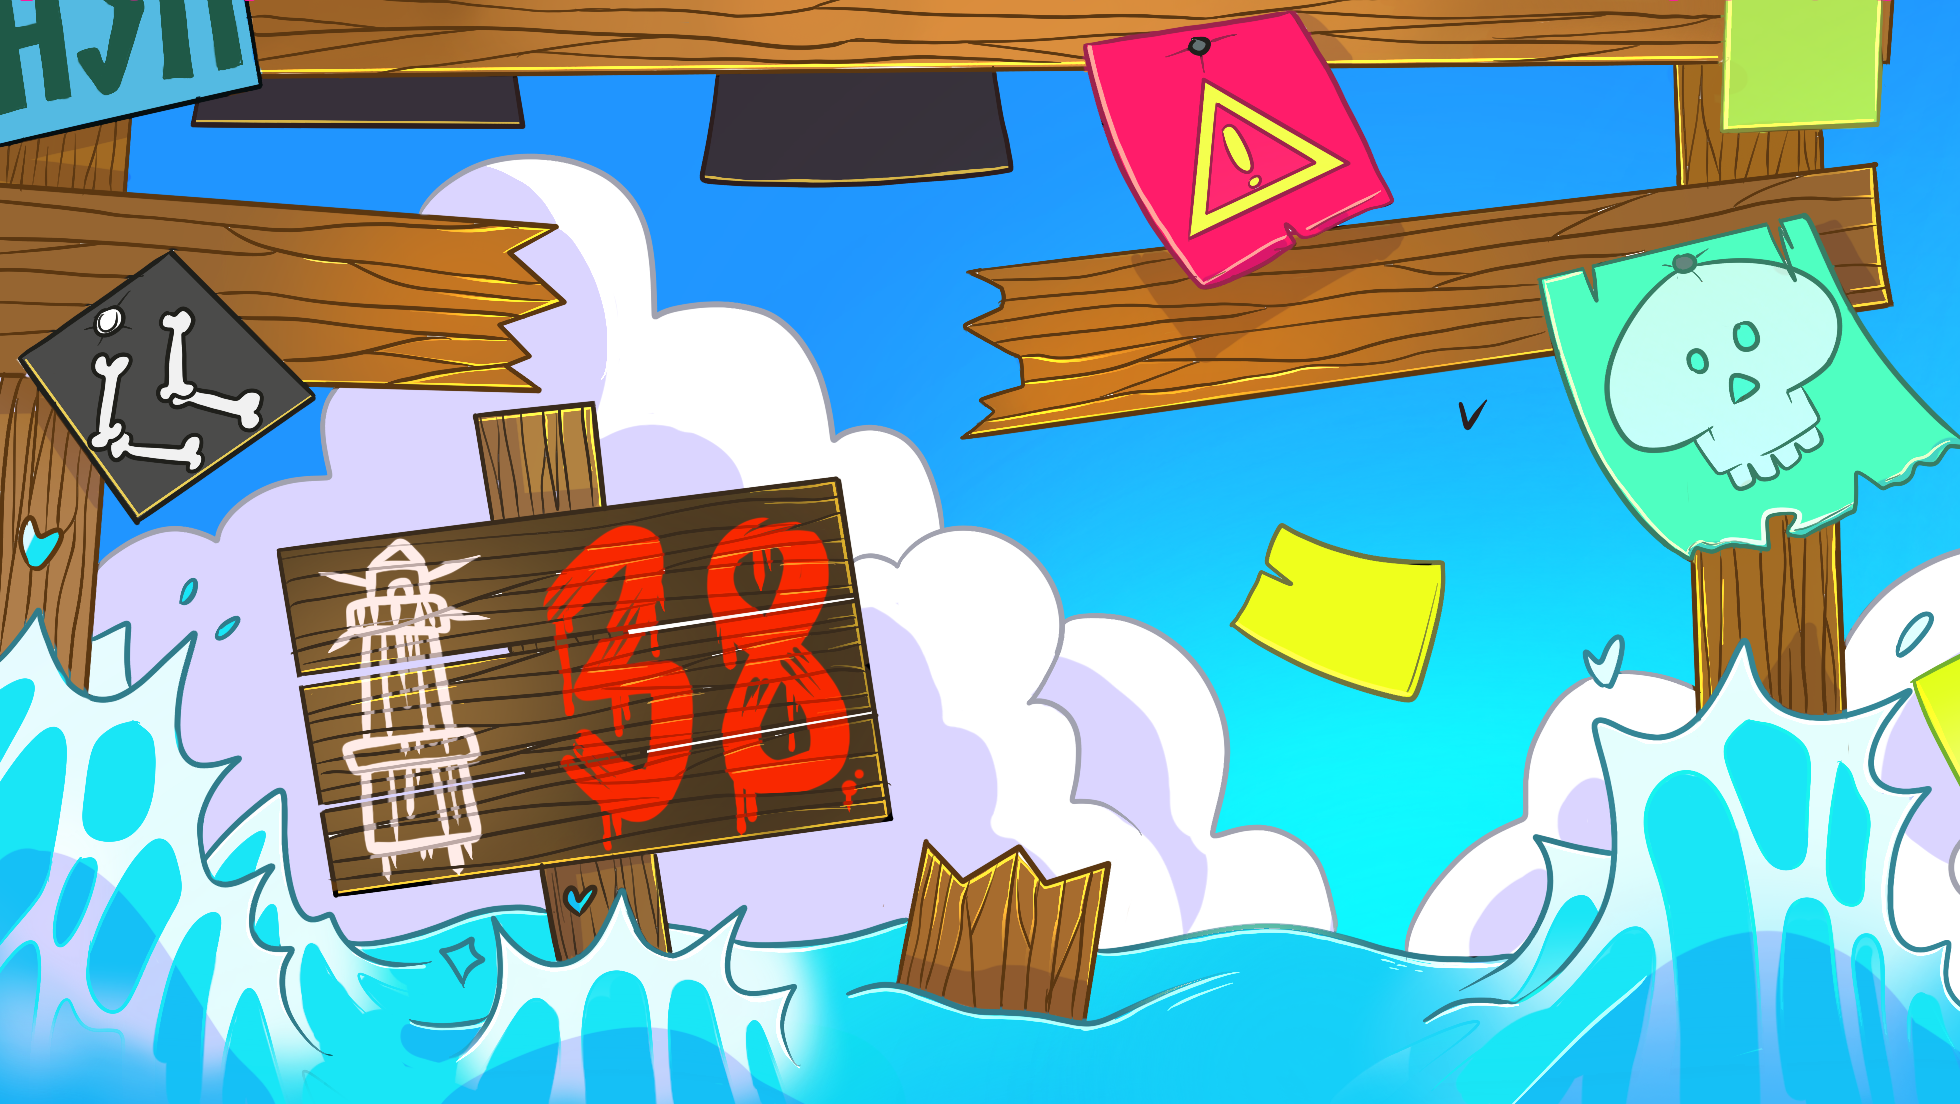
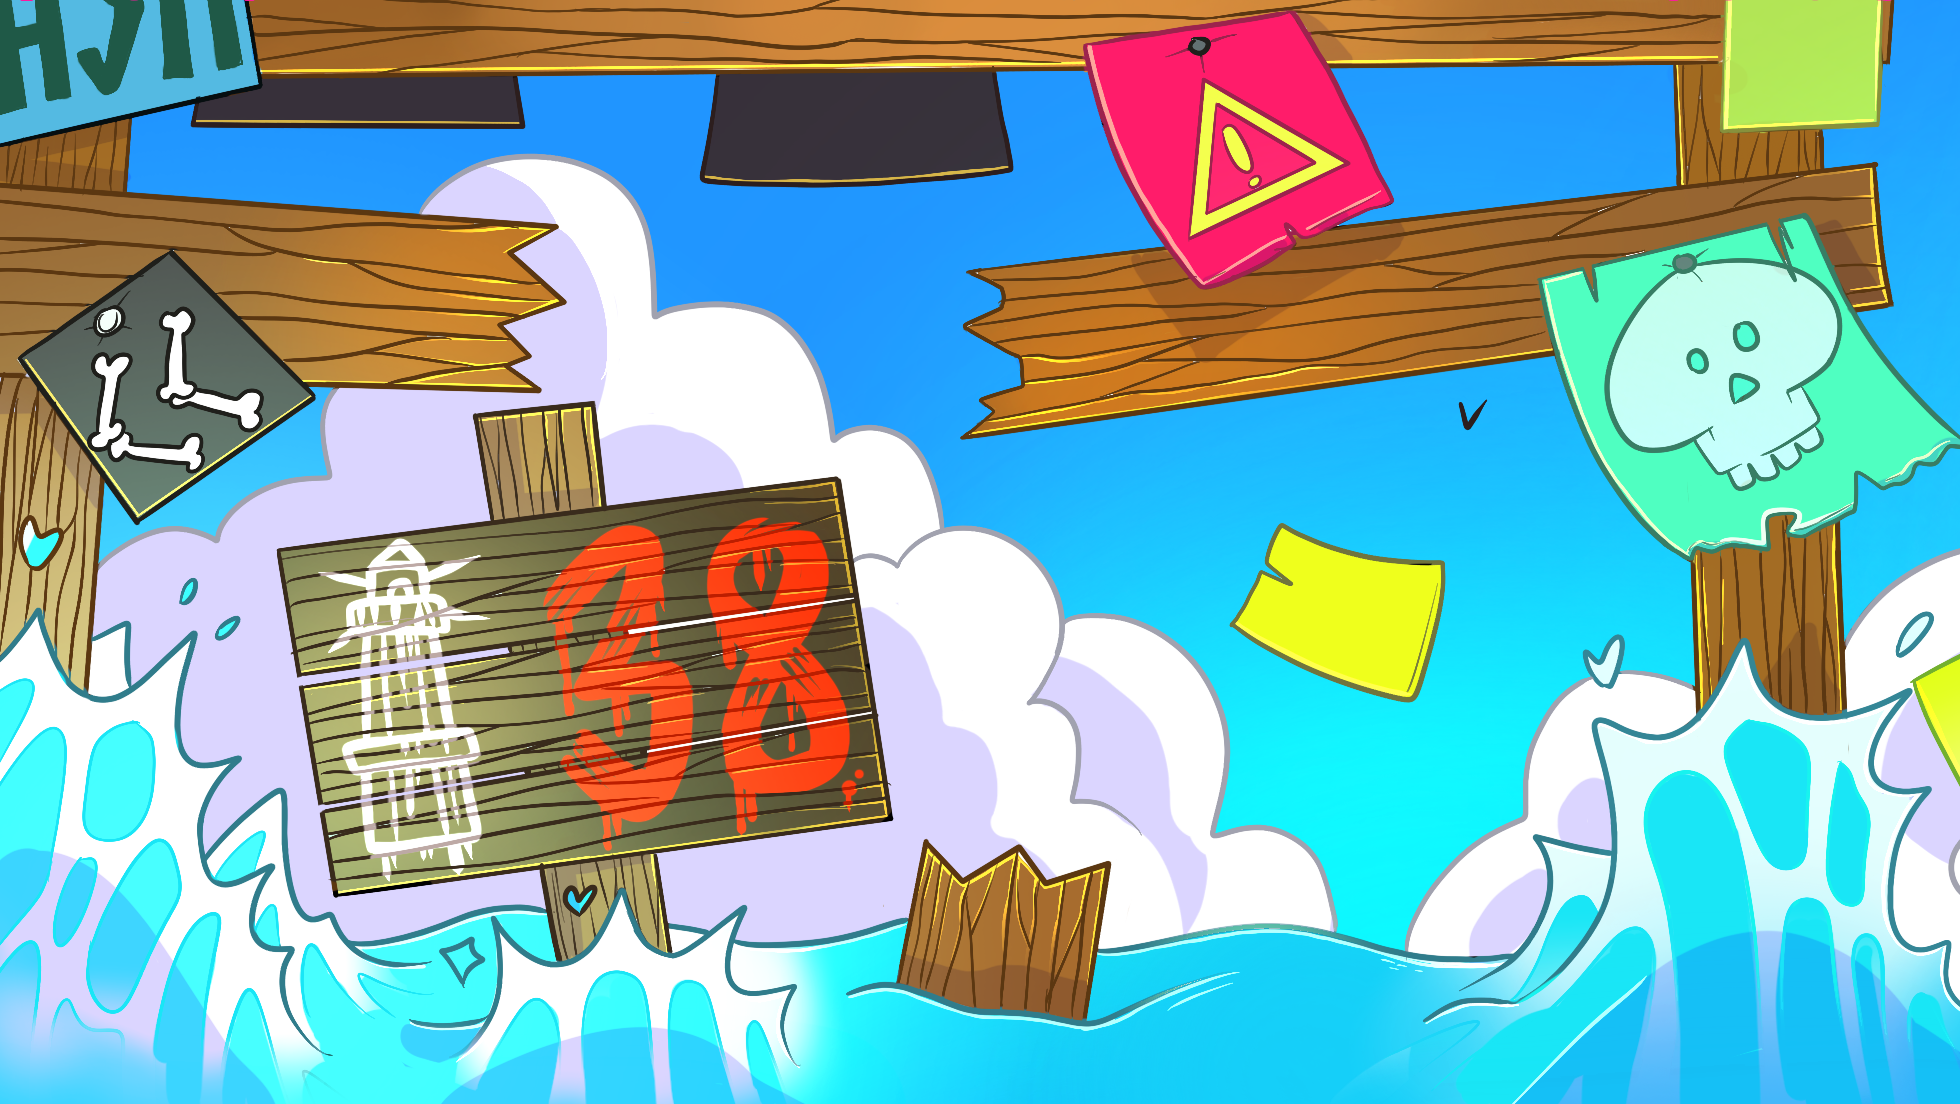
feat(slides): uniformizing backgrounds

Changed region(s): [[0.0, 0.2772, 0.4668, 1.0]]

diff --git a/apps/presentation/components/DetailSlideLoader.vue b/apps/presentation/components/DetailSlideLoader.vue
@@ -1,5 +1,5 @@
 <script setup lang="ts">
-import { computed, defineAsyncComponent, watch, onMounted, type Component } from 'vue'
+import { computed, defineAsyncComponent, type Component } from 'vue'
 import { voteStore } from '../setup/main'
 import type { MetricName } from '../../../shared/metrics-data'
 
@@ -18,20 +18,6 @@ const metricIndexMap: Record<MetricName, number> = {
 
 const winner = computed(() => voteStore.getChoice(metricIndexMap[props.metric]))
 
-// Set CSS variable for dynamic horizontal transition direction
-// Option A: left-to-right = direction 1 (content enters from right)
-// Option B: right-to-left = direction -1 (content enters from left)
-const updateSlideDirection = () => {
-  if (props.slideIndex >= 3) {
-    const option = winner.value?.toLowerCase()
-    const direction = option === 'a' ? '1' : '-1'
-    document.documentElement.style.setProperty('--slide-direction', direction)
-  }
-}
-
-watch(winner, updateSlideDirection, { immediate: true })
-onMounted(updateSlideDirection)
-
 const DetailComponent = computed<Component | null>(() => {
   if (!winner.value) return null
   const option = winner.value.toLowerCase() as 'a' | 'b'
@@ -45,5 +31,8 @@ const DetailComponent = computed<Component | null>(() => {
 </script>
 
 <template>
-  <component v-if="DetailComponent" :is="DetailComponent" />
+  <component
+    v-if="DetailComponent"
+    :is="DetailComponent"
+  />
 </template>

diff --git a/apps/presentation/styles/theme.css b/apps/presentation/styles/theme.css
@@ -35,6 +35,14 @@
   padding: 2rem;
 }
 
+/* Slide background with quadrant system (200% 200%) */
+.slide-bg-quadrant {
+  position: absolute;
+  inset: 0;
+  background-size: 200% 200%;
+  padding: 2rem;
+}
+
 /* Fonts utilities */
 .font-title {
   font-family: var(--font-title);
@@ -95,23 +103,3 @@ kbd {
   }
 }
 
-/* Custom dynamic horizontal slide transition */
-/* Direction is controlled by --slide-direction CSS variable: 1 = left-to-right, -1 = right-to-left */
-:root {
-  --slide-direction: 1;
-}
-
-.slidev-vt-slide-horizontal-enter-active,
-.slidev-vt-slide-horizontal-leave-active {
-  transition: all var(--slidev-transition-duration) ease;
-}
-
-.slidev-vt-slide-horizontal-enter-from {
-  opacity: 0;
-  transform: translateX(calc(var(--slide-direction) * 100%));
-}
-
-.slidev-vt-slide-horizontal-leave-to {
-  opacity: 0;
-  transform: translateX(calc(var(--slide-direction) * -100%));
-}

diff --git a/apps/presentation/components/metrics/fcp/options/b/detail-slides/DetailSlide2.vue b/apps/presentation/components/metrics/fcp/options/b/detail-slides/DetailSlide2.vue
@@ -2,7 +2,7 @@
 </script>
 
 <template>
-  <div class="slide-background">
+  <div class="slide-bg-quadrant" style="background-image: url('/backgrounds/parchment.png'); background-position: 0% 100%;">
     <DetailSlide metric="fcp" option="b">
       <div class="max-w-4xl w-full mx-auto">
         <p class="text-xl text-gray-300 text-center">
@@ -13,13 +13,3 @@
   </div>
 </template>
 
-<style scoped>
-.slide-background {
-  position: absolute;
-  inset: 0;
-  background-image: url('/backgrounds/parchment.png');
-  background-size: 200% 200%;
-  background-position: 100% 100%;
-  padding: 2rem;
-}
-</style>

diff --git a/apps/presentation/components/metrics/fcp/options/b/detail-slides/DetailSlide3.vue b/apps/presentation/components/metrics/fcp/options/b/detail-slides/DetailSlide3.vue
@@ -2,7 +2,7 @@
 </script>
 
 <template>
-  <div class="slide-background">
+  <div class="slide-bg-quadrant" style="background-image: url('/backgrounds/parchment.png'); background-position: 100% 100%;">
     <DetailSlide metric="fcp" option="b">
       <div class="max-w-4xl w-full mx-auto">
         <p class="text-xl text-gray-300 text-center">
@@ -13,13 +13,3 @@
   </div>
 </template>
 
-<style scoped>
-.slide-background {
-  position: absolute;
-  inset: 0;
-  background-image: url('/backgrounds/parchment.png');
-  background-size: 200% 200%;
-  background-position: 0% 100%;
-  padding: 2rem;
-}
-</style>

diff --git a/apps/presentation/components/metrics/lcp/options/b/detail-slides/DetailSlide2.vue b/apps/presentation/components/metrics/lcp/options/b/detail-slides/DetailSlide2.vue
@@ -2,7 +2,7 @@
 </script>
 
 <template>
-  <div class="slide-background">
+  <div class="slide-bg-quadrant" style="background-image: url('/backgrounds/parchment.png'); background-position: 0% 100%;">
     <DetailSlide metric="lcp" option="b">
       <div class="max-w-4xl w-full mx-auto">
         <p class="text-xl text-gray-300 text-center">
@@ -13,13 +13,3 @@
   </div>
 </template>
 
-<style scoped>
-.slide-background {
-  position: absolute;
-  inset: 0;
-  background-image: url('/backgrounds/parchment.png');
-  background-size: 200% 200%;
-  background-position: 100% 100%;
-  padding: 2rem;
-}
-</style>

diff --git a/apps/presentation/components/metrics/tbt/options/b/detail-slides/DetailSlide2.vue b/apps/presentation/components/metrics/tbt/options/b/detail-slides/DetailSlide2.vue
@@ -2,7 +2,7 @@
 </script>
 
 <template>
-  <div class="slide-background">
+  <div class="slide-bg-quadrant" style="background-image: url('/backgrounds/parchment.png'); background-position: 0% 100%;">
     <DetailSlide metric="tbt" option="b">
       <div class="max-w-4xl w-full mx-auto">
         <p class="text-xl text-gray-300 text-center">
@@ -13,13 +13,3 @@
   </div>
 </template>
 
-<style scoped>
-.slide-background {
-  position: absolute;
-  inset: 0;
-  background-image: url('/backgrounds/parchment.png');
-  background-size: 200% 200%;
-  background-position: 100% 100%;
-  padding: 2rem;
-}
-</style>

diff --git a/apps/presentation/components/metrics/si/options/b/detail-slides/DetailSlide2.vue b/apps/presentation/components/metrics/si/options/b/detail-slides/DetailSlide2.vue
@@ -2,7 +2,7 @@
 </script>
 
 <template>
-  <div class="slide-background">
+  <div class="slide-bg-quadrant" style="background-image: url('/backgrounds/parchment.png'); background-position: 0% 100%;">
     <DetailSlide metric="si" option="b">
       <div class="max-w-4xl w-full mx-auto">
         <p class="text-xl text-gray-300 text-center">
@@ -13,13 +13,3 @@
   </div>
 </template>
 
-<style scoped>
-.slide-background {
-  position: absolute;
-  inset: 0;
-  background-image: url('/backgrounds/parchment.png');
-  background-size: 200% 200%;
-  background-position: 100% 100%;
-  padding: 2rem;
-}
-</style>

diff --git a/apps/presentation/components/metrics/lcp/options/a/detail-slides/DetailSlide2.vue b/apps/presentation/components/metrics/lcp/options/a/detail-slides/DetailSlide2.vue
@@ -2,7 +2,7 @@
 </script>
 
 <template>
-  <div class="slide-background">
+  <div class="slide-bg-quadrant" style="background-image: url('/backgrounds/parchment.png'); background-position: 0% 100%;">
     <DetailSlide metric="lcp" option="a">
       <div class="max-w-4xl w-full mx-auto">
         <p class="text-xl text-gray-300 text-center">
@@ -13,13 +13,3 @@
   </div>
 </template>
 
-<style scoped>
-.slide-background {
-  position: absolute;
-  inset: 0;
-  background-image: url('/backgrounds/parchment.png');
-  background-size: 200% 200%;
-  background-position: 0% 100%;
-  padding: 2rem;
-}
-</style>

diff --git a/apps/presentation/components/metrics/tbt/options/a/detail-slides/DetailSlide2.vue b/apps/presentation/components/metrics/tbt/options/a/detail-slides/DetailSlide2.vue
@@ -2,7 +2,7 @@
 </script>
 
 <template>
-  <div class="slide-background">
+  <div class="slide-bg-quadrant" style="background-image: url('/backgrounds/parchment.png'); background-position: 0% 100%;">
     <DetailSlide metric="tbt" option="a">
       <div class="max-w-4xl w-full mx-auto">
         <p class="text-xl text-gray-300 text-center">
@@ -13,13 +13,3 @@
   </div>
 </template>
 
-<style scoped>
-.slide-background {
-  position: absolute;
-  inset: 0;
-  background-image: url('/backgrounds/parchment.png');
-  background-size: 200% 200%;
-  background-position: 0% 100%;
-  padding: 2rem;
-}
-</style>

diff --git a/apps/presentation/components/metrics/si/options/a/detail-slides/DetailSlide2.vue b/apps/presentation/components/metrics/si/options/a/detail-slides/DetailSlide2.vue
@@ -2,7 +2,7 @@
 </script>
 
 <template>
-  <div class="slide-background">
+  <div class="slide-bg-quadrant" style="background-image: url('/backgrounds/parchment.png'); background-position: 0% 100%;">
     <DetailSlide metric="si" option="a">
       <div class="max-w-4xl w-full mx-auto">
         <p class="text-xl text-gray-300 text-center">
@@ -13,13 +13,3 @@
   </div>
 </template>
 
-<style scoped>
-.slide-background {
-  position: absolute;
-  inset: 0;
-  background-image: url('/backgrounds/parchment.png');
-  background-size: 200% 200%;
-  background-position: 0% 100%;
-  padding: 2rem;
-}
-</style>

diff --git a/apps/presentation/components/metrics/lcp/options/b/detail-slides/DetailSlide1.vue b/apps/presentation/components/metrics/lcp/options/b/detail-slides/DetailSlide1.vue
@@ -2,7 +2,7 @@
 </script>
 
 <template>
-  <div class="slide-background">
+  <div class="slide-bg-quadrant" style="background-image: url('/backgrounds/parchment.png'); background-position: 0% 0%;">
     <DetailSlide metric="lcp" option="b">
       <div class="max-w-4xl w-full mx-auto">
         <p class="text-xl text-gray-300 text-center">
@@ -13,13 +13,3 @@
   </div>
 </template>
 
-<style scoped>
-.slide-background {
-  position: absolute;
-  inset: 0;
-  background-image: url('/backgrounds/parchment.png');
-  background-size: 200% 200%;
-  background-position: 100% 0%;
-  padding: 2rem;
-}
-</style>

diff --git a/apps/presentation/components/metrics/tbt/options/b/detail-slides/DetailSlide1.vue b/apps/presentation/components/metrics/tbt/options/b/detail-slides/DetailSlide1.vue
@@ -2,7 +2,7 @@
 </script>
 
 <template>
-  <div class="slide-background">
+  <div class="slide-bg-quadrant" style="background-image: url('/backgrounds/parchment.png'); background-position: 0% 0%;">
     <DetailSlide metric="tbt" option="b">
       <div class="max-w-4xl w-full mx-auto">
         <p class="text-xl text-gray-300 text-center">
@@ -13,13 +13,3 @@
   </div>
 </template>
 
-<style scoped>
-.slide-background {
-  position: absolute;
-  inset: 0;
-  background-image: url('/backgrounds/parchment.png');
-  background-size: 200% 200%;
-  background-position: 100% 0%;
-  padding: 2rem;
-}
-</style>
